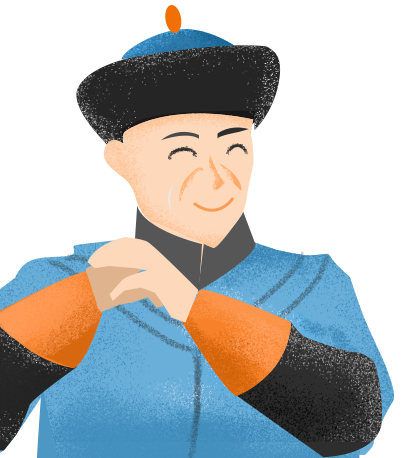
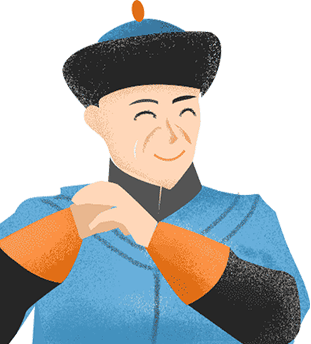
1

diff --git a/css/index.css b/css/index.css
@@ -1,20 +1,20 @@
 .bg01{
 	width:37.5rem;
 	height:22.25rem;
-	background:url(../images/bg01.webp) center no-repeat;
+	background:url(../images/bg01.jpg) center no-repeat;
 	background-size:cover;
 	}
 .bg02{
 	width:37.5rem;
 	height:22.2rem;
-	background:url(../images/bg02.webp) center no-repeat;
+	background:url(../images/bg02.jpg) center no-repeat;
 	background-size:cover;
 	padding-top:0.1px;
 	}	
 .bg03{
 	width:37.5rem;
 	height:22.25rem;
-	background:url(../images/bg03.webp) center no-repeat;
+	background:url(../images/bg03.jpg) center no-repeat;
 	background-size:cover;
 	padding-top:0.1px;	
 	}		
@@ -76,20 +76,20 @@
 .pbg01{
 	width:37.5rem;
 	height:14.6rem;
-	background:url(../images/pbg01.webp) center no-repeat;
+	background:url(../images/pbg01.png) center no-repeat;
 	background-size:cover;
 	}
 .pbg02{
 	width:37.5rem;
 	height:14.65rem;
-	background:url(../images/pbg02.webp) center no-repeat;
+	background:url(../images/pbg02.png) center no-repeat;
 	background-size:cover;
 	padding-top:0.1px;
 	}	
 .pbg03{
 	width:37.5rem;
 	height:14.6rem;
-	background:url(../images/pbg03.webp) center no-repeat;
+	background:url(../images/pbg03.png) center no-repeat;
 	background-size:cover;
 	padding-top:0.1px;	
 	}		
@@ -152,19 +152,19 @@
 .tbg01{
 	width:37.5rem;
 	height:13.45rem;
-	background:url(../images/tbg01.webp) center no-repeat;
+	background:url(../images/tbg01.png) center no-repeat;
 	background-size:cover;
 	}
 .tbg02{
 	width:37.5rem;
 	height:13.4rem;
-	background:url(../images/tbg02.webp) center no-repeat;
+	background:url(../images/tbg02.png) center no-repeat;
 	background-size:cover;
 	}
 .tbg03{
 	width:37.5rem;
 	height:13.45rem;
-	background:url(../images/tbg03.webp) center no-repeat;
+	background:url(../images/tbg03.png) center no-repeat;
 	background-size:cover;
 	padding-top:0.1px;
 	}
@@ -214,26 +214,26 @@
 .cbg01{
 	width:37.5rem;
 	height:16.2rem;
-	background:url(../images/cbg01.webp) center no-repeat;
+	background:url(../images/cbg01.png) center no-repeat;
 	background-size:cover;
 	}
 .cbg02{
 	width:37.5rem;
 	height:14.15rem;
-	background:url(../images/cbg02.webp) center no-repeat;
+	background:url(../images/cbg02.png) center no-repeat;
 	background-size:cover;
 	}
 .cbg03{
 	width:37.5rem;
 	height:13.25rem;
-	background:url(../images/cbg03.webp) center no-repeat;
+	background:url(../images/cbg03.png) center no-repeat;
 	background-size:cover;
 	padding-top:0.1px;
 	}
 .cbg01>p:nth-child(1){
 	font-size:2rem;
 	margin-left:8.2rem;
-	padding-top:11rem;
+	padding-top:12rem;
 	color:#fff;
 	width:4em;
 	}
@@ -277,7 +277,7 @@
 .button.fiv{
 	width:21.4rem;
 	height:3.6rem;
-	margin:2.2rem auto 0 auto;
+	margin:3.2rem auto 0 auto;
 	background:url(../images/button05.png) center no-repeat;
 	background-size:cover;
 	}
@@ -295,28 +295,28 @@
 .mbg01{
 	width:37.5rem;
 	height:13.55rem;
-	background:url(../images/mbg01.webp) center no-repeat;
+	background:url(../images/mbg01.png) center no-repeat;
 	background-size:cover;
 	padding-top:0.1px;
 	}
 .mbg02{
 	width:37.5rem;
 	height:16.2rem;
-	background:url(../images/mbg02.webp) center no-repeat;
+	background:url(../images/mbg02.png) center no-repeat;
 	background-size:cover;
 	padding-top:0.1px;
 	}
 .mbg03{
 	width:37.5rem;
 	height:14.9rem;
-	background:url(../images/mbg03.webp) center no-repeat;
+	background:url(../images/mbg03.png) center no-repeat;
 	background-size:cover;
 	padding-top:0.1px;
 	}
 .mbg04{
 	width:37.5rem;
 	height:14.85rem;
-	background:url(../images/mbg04.webp) center no-repeat;
+	background:url(../images/mbg04.png) center no-repeat;
 	background-size:cover;
 	padding-top:0.1px;
 	}
@@ -415,7 +415,7 @@
 	margin-left:-18.75rem;
 	margin-top:-29.25rem;
 	z-index:101;
-	background: url("../images/myj.webp") center no-repeat;
+	background: url("../images/myj.png") center no-repeat;
 	background-size: cover;
 }
 	
